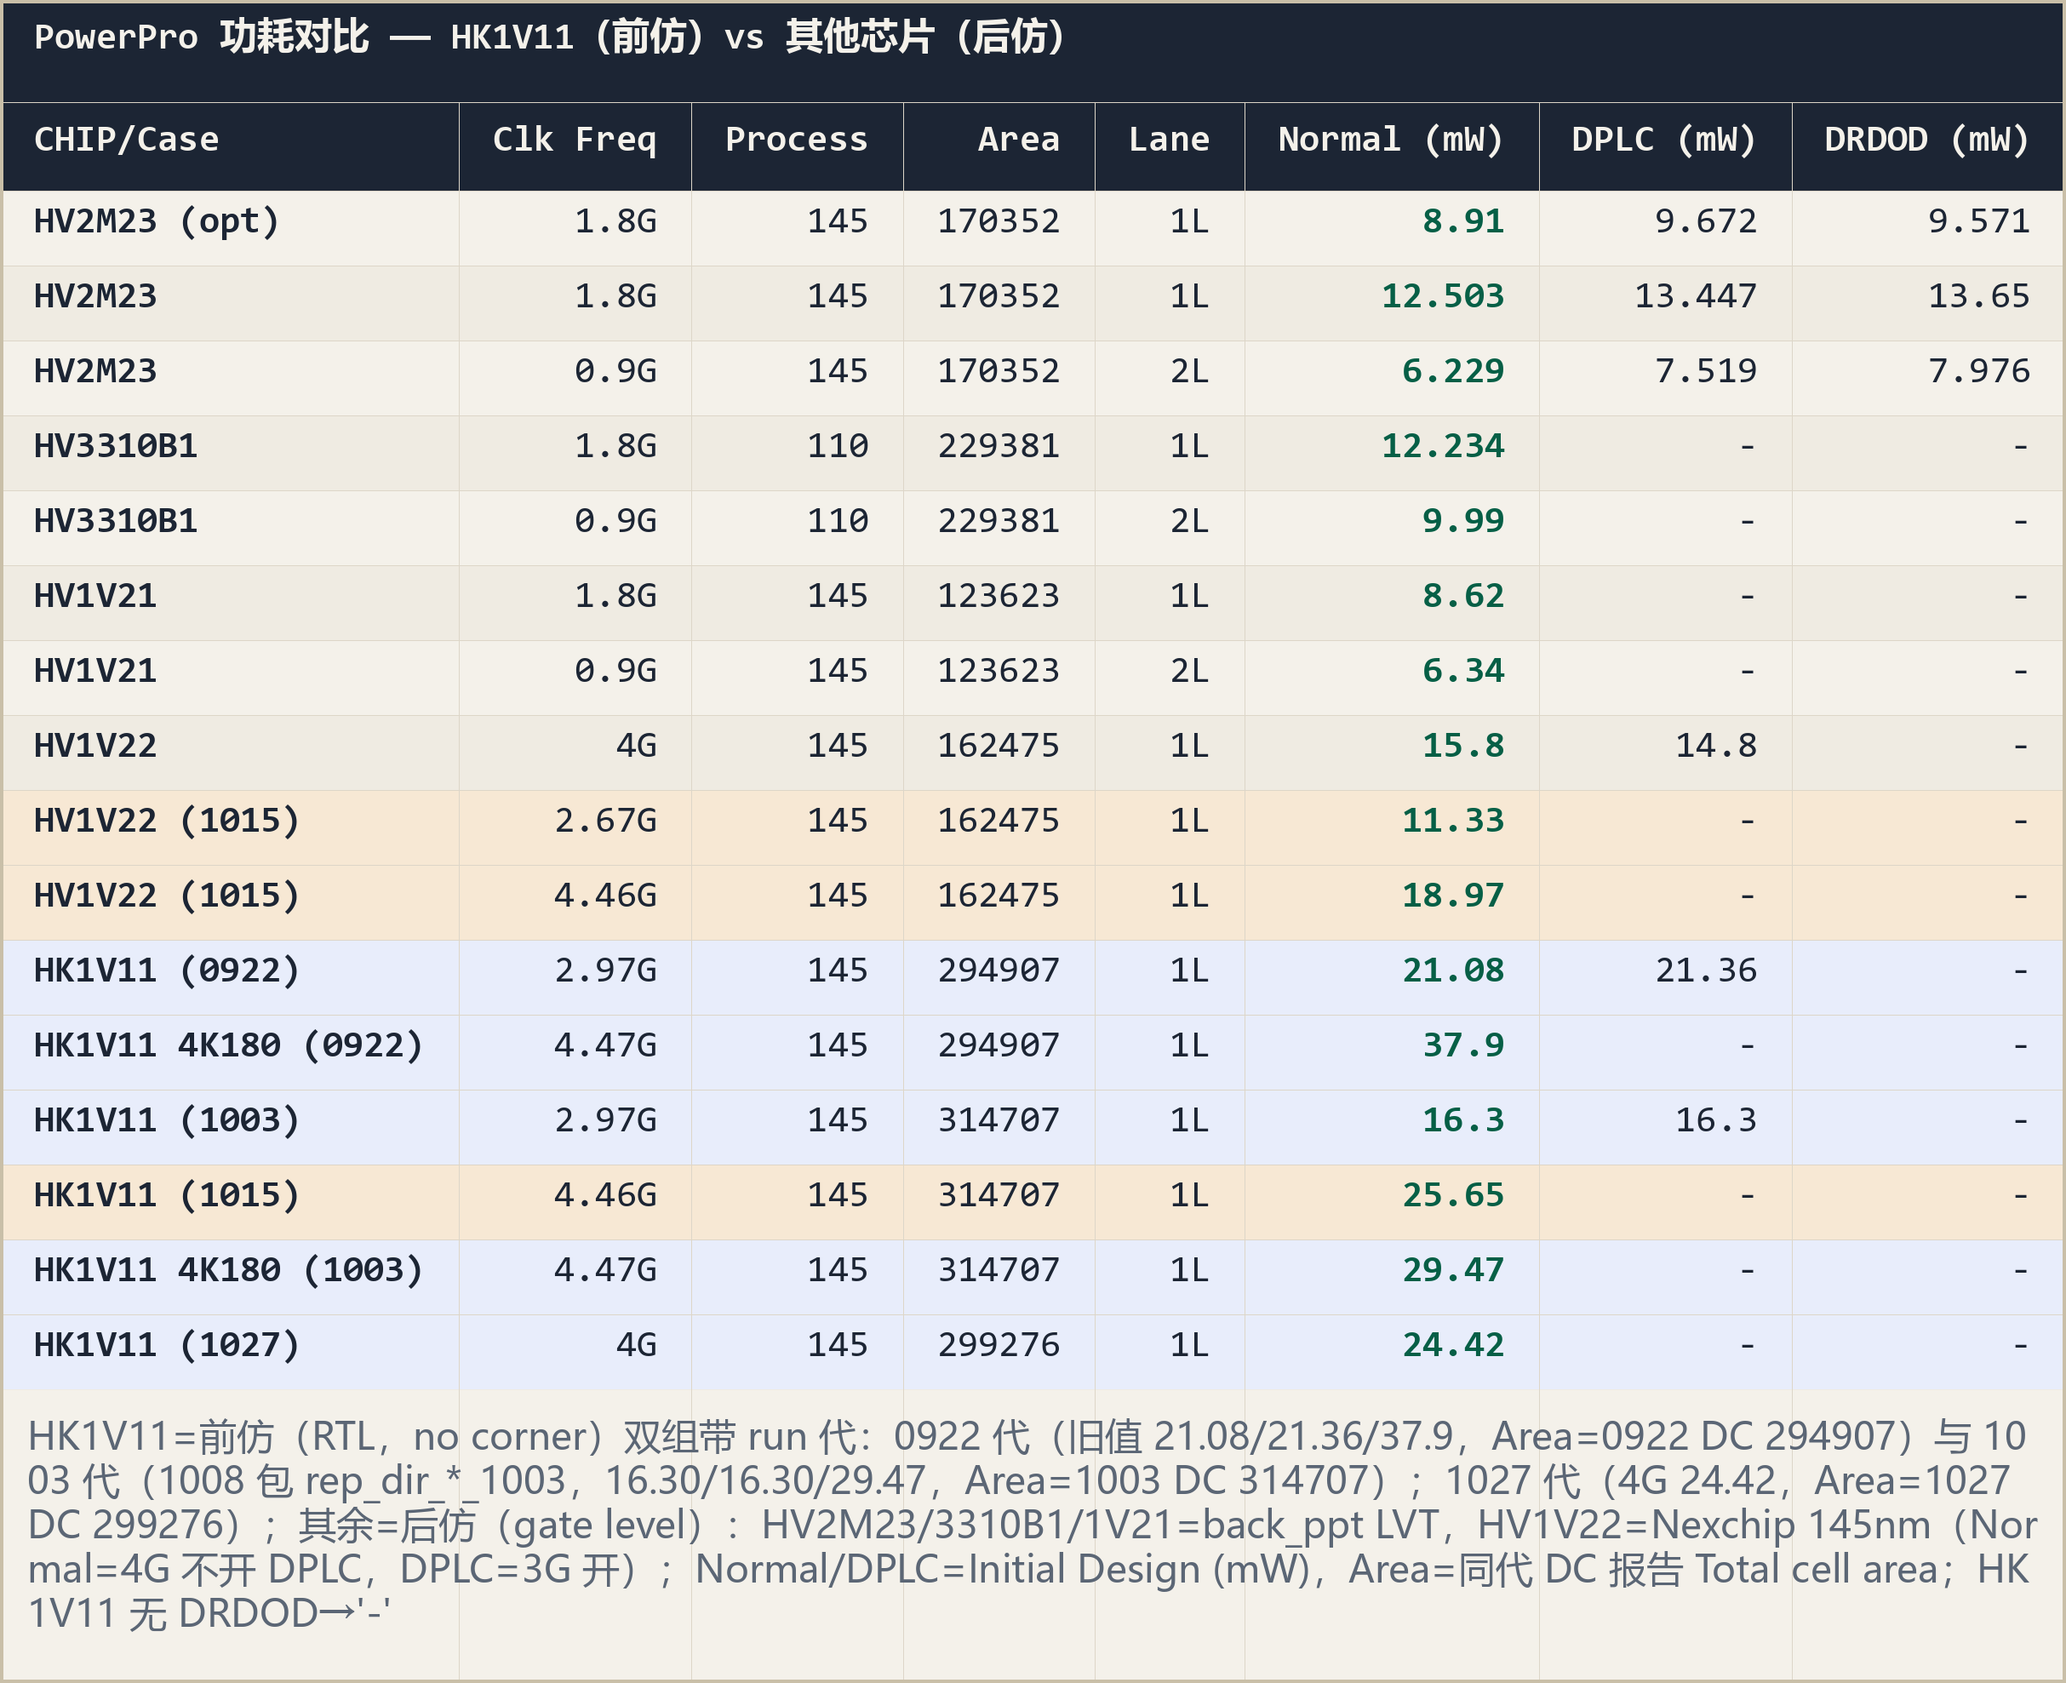
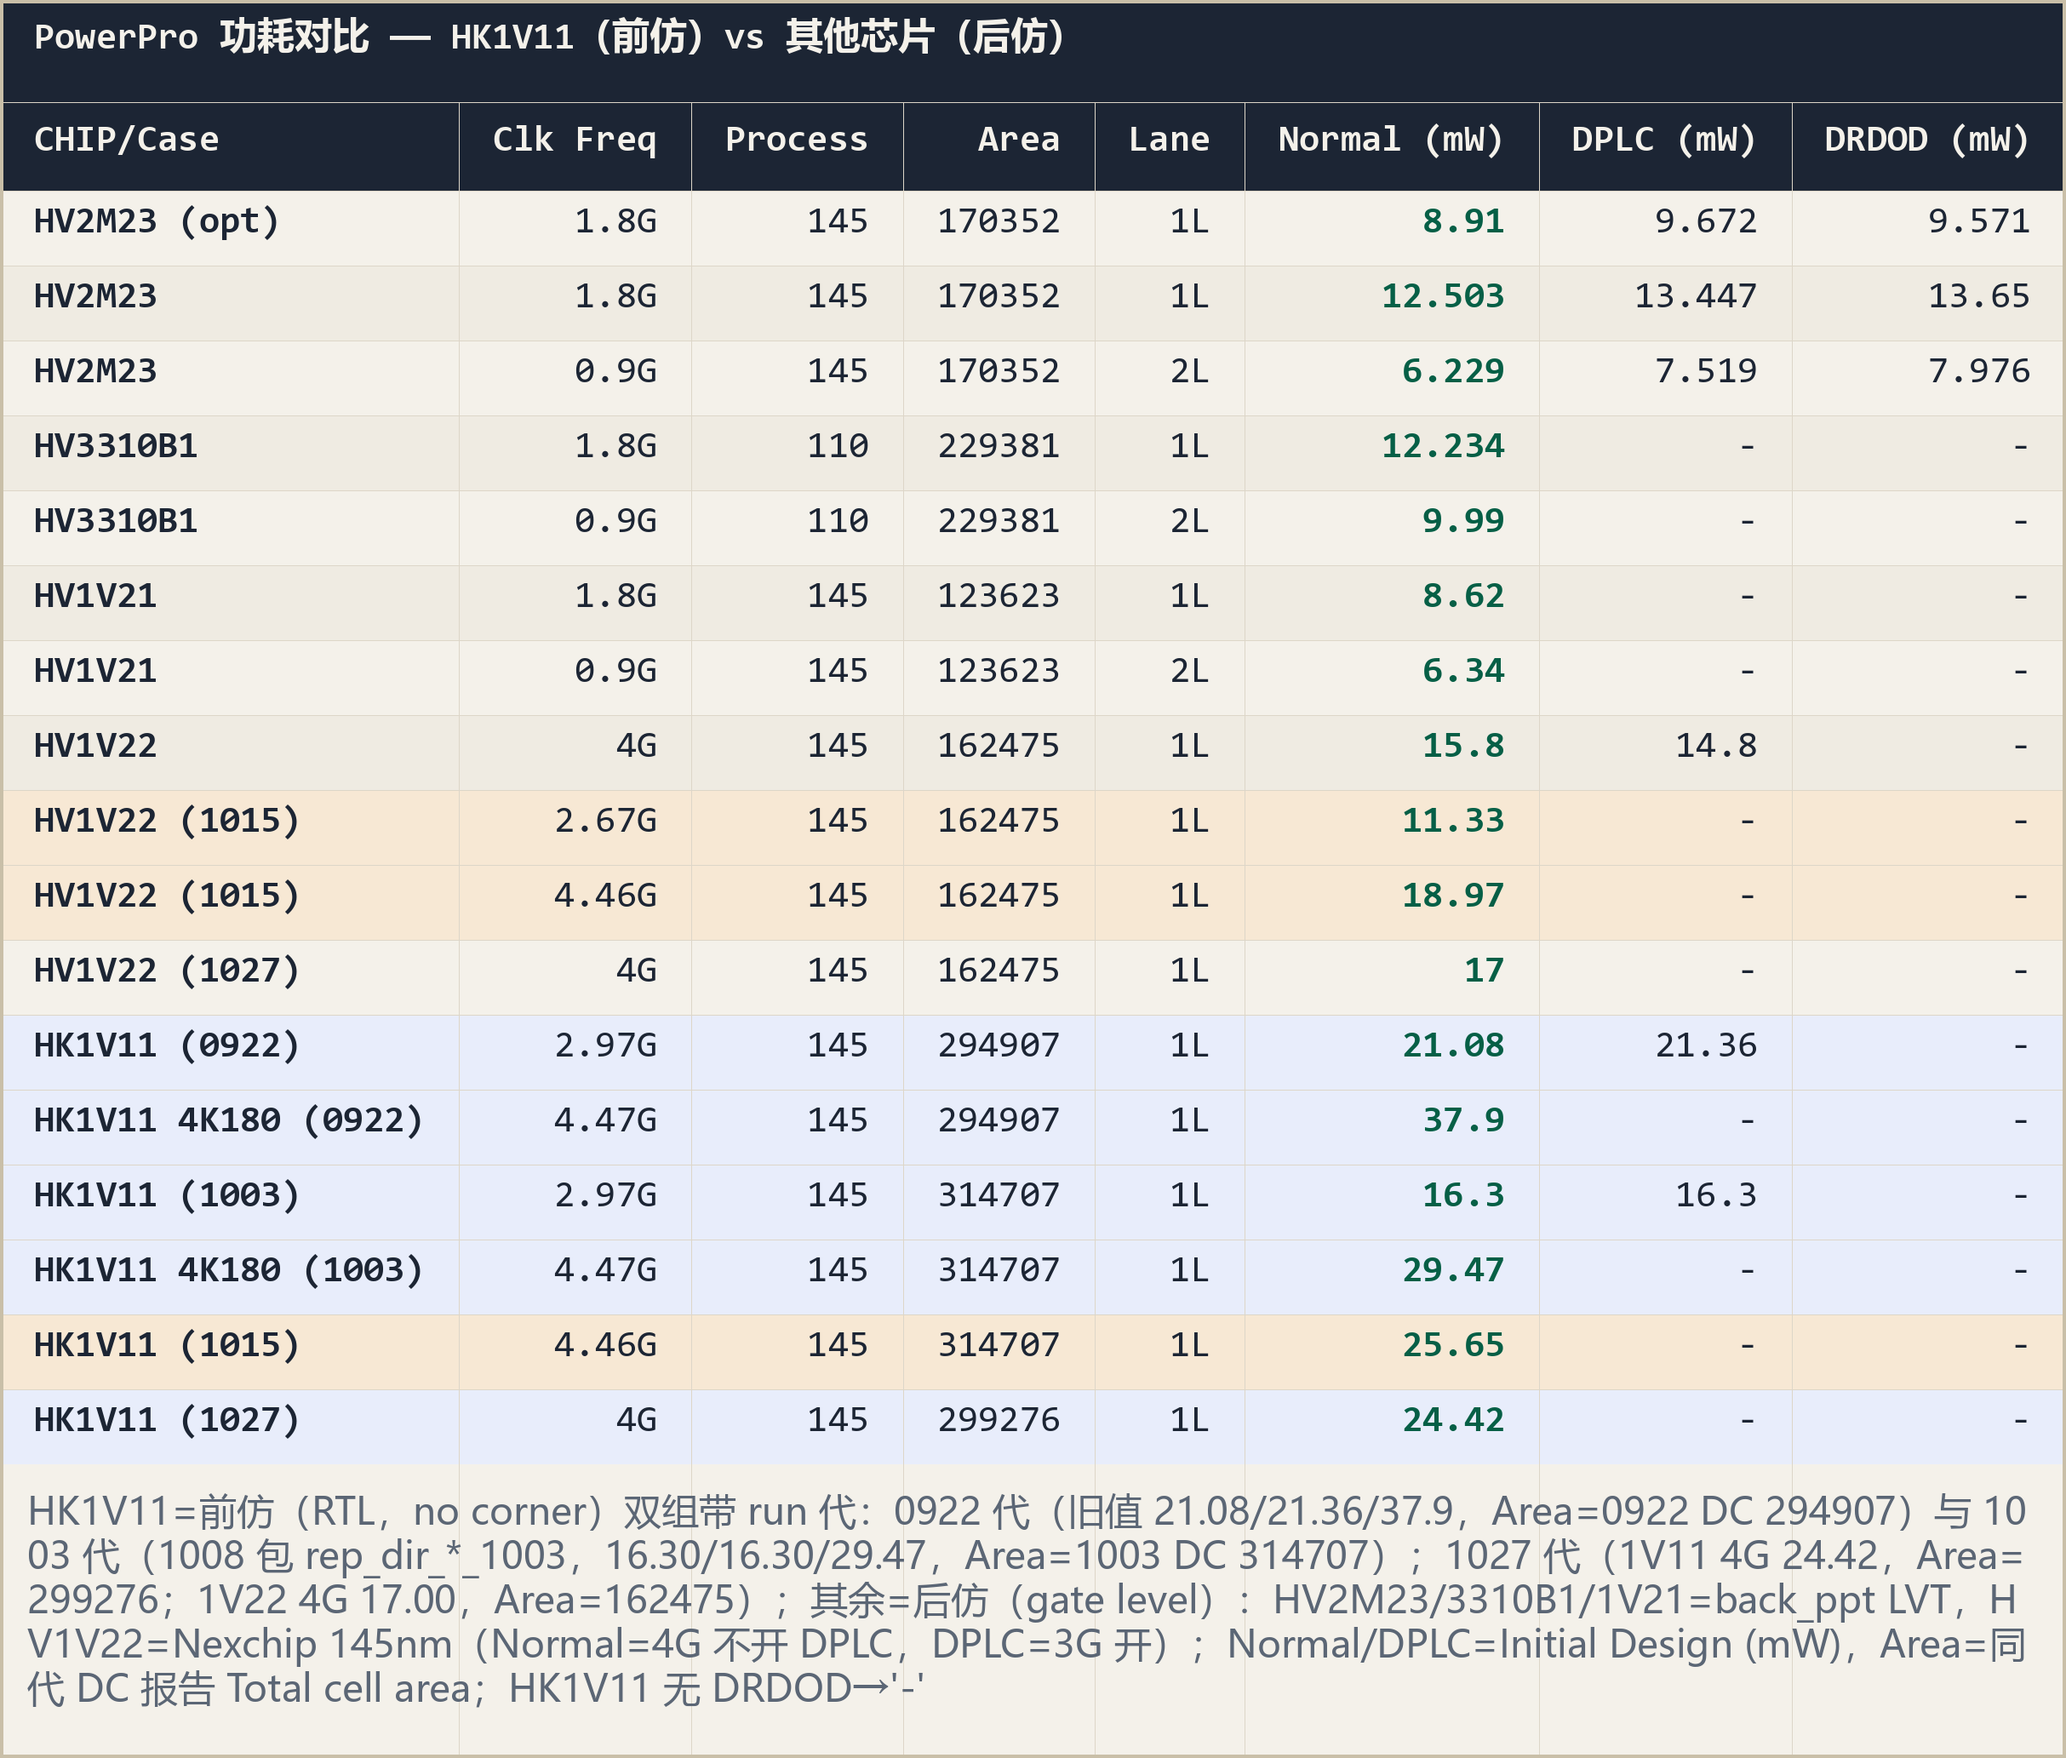
功耗对比图新增 HV1V22 (1027) 行，双 1027 蓝高亮，按代际时间排序（17 行）ymzhu 2026-10-27 17:41

diff --git a/hk1v11-synthesis-postpt-practice/ch08-powerpro.html b/hk1v11-synthesis-postpt-practice/ch08-powerpro.html
@@ -111,7 +111,7 @@ WARNING: PowerPro 读取的 RTL 必须是可综合代码，无法综合会 inter
 
 ![HK1V11 vs 其他项目 PowerPro 功耗对比](./power_compare_hk11.svg)
 
-> 数据源：HV2M23/3310B1/1V21 = back_ppt（PowerPro LVT）；**HV1V22 = Nexchip 145nm 实测（Normal=4G 不开 DPLC 15.8，DPLC=3G 开 14.8）**；HV1V31 数据暂缺已移除。**HK1V11 双组带 run 代**：**(0922)** = 21.08 / DPLC 21.36 / 4K180 37.9（Area 294907）；**(1003)**（1008 包 `rep_dir_*_1003` Initial Design）= 16.30 / DPLC 16.30 / 4K180 29.47（Area 314707，1003 DC 报告）；**1027 代（4G 24.42，Area=1027 DC 299276）**。
+> 数据源：HV2M23/3310B1/1V21 = back_ppt（PowerPro LVT）；**HV1V22 = Nexchip 145nm 实测（Normal=4G 不开 DPLC 15.8，DPLC=3G 开 14.8）**；HV1V31 数据暂缺已移除。**HK1V11 双组带 run 代**：**(0922)** = 21.08 / DPLC 21.36 / 4K180 37.9（Area 294907）；**(1003)**（1008 包 `rep_dir_*_1003` Initial Design）= 16.30 / DPLC 16.30 / 4K180 29.47（Area 314707，1003 DC 报告）；**1027 代（1V11 4G 24.42，Area=299276；1V22 4G 17.00，Area=162475）**。
 
 > ⚠ HK1V11 功耗绝对值偏高**主因速率更高**（2.97G/4.47G vs 其他 1.8G/0.9G），**非同速率对比**，直接比 mW 会偏（HV1V22 为 4G/3G，对比注意口径）。HV1V22 的**双边同流程 PowerPro 对账**（同工具同库同 Initial 口径）见 §4.5。
 
@@ -329,4 +329,4 @@ WARNING: PowerPro 读取的 RTL 必须是可综合代码，无法综合会 inter
   <script src="./fx.js"></script>
 </body>
 </html>
-<!-- ymzhu 2026-10-27 16:58 -->
+<!-- ymzhu 2026-10-27 17:41 -->
